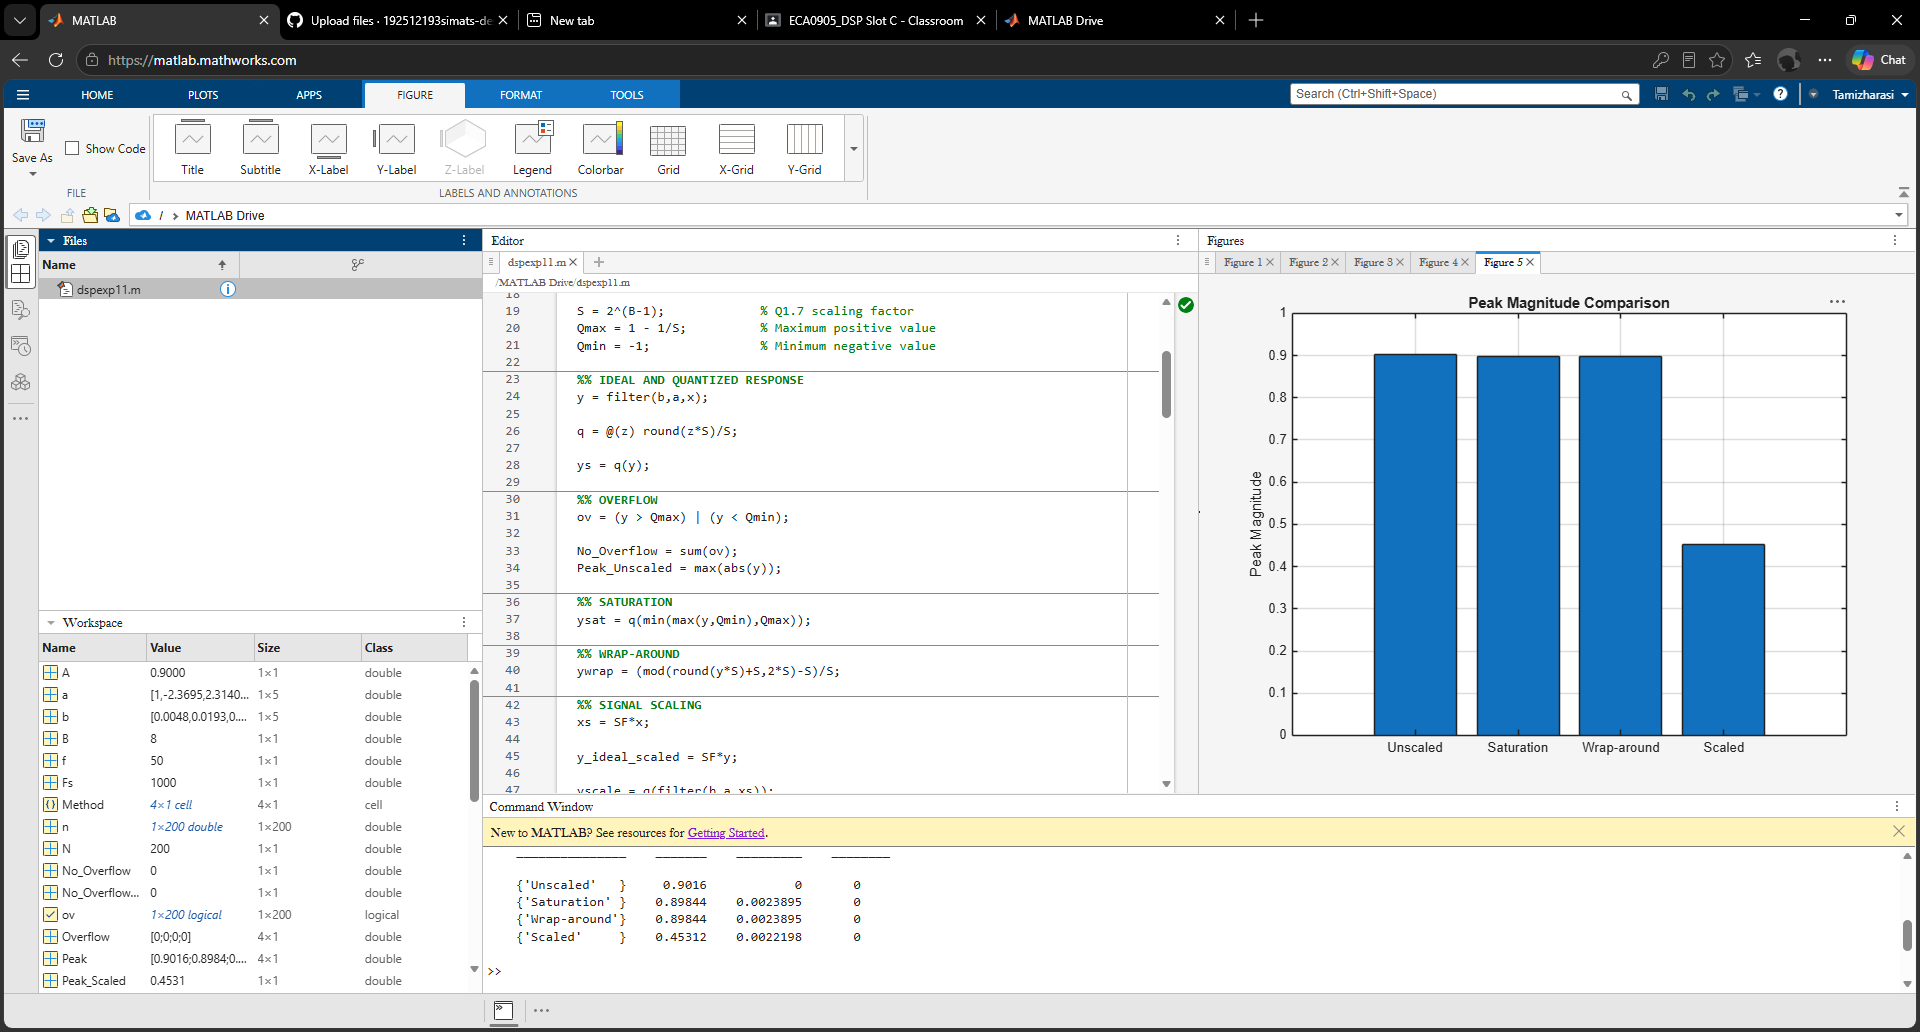
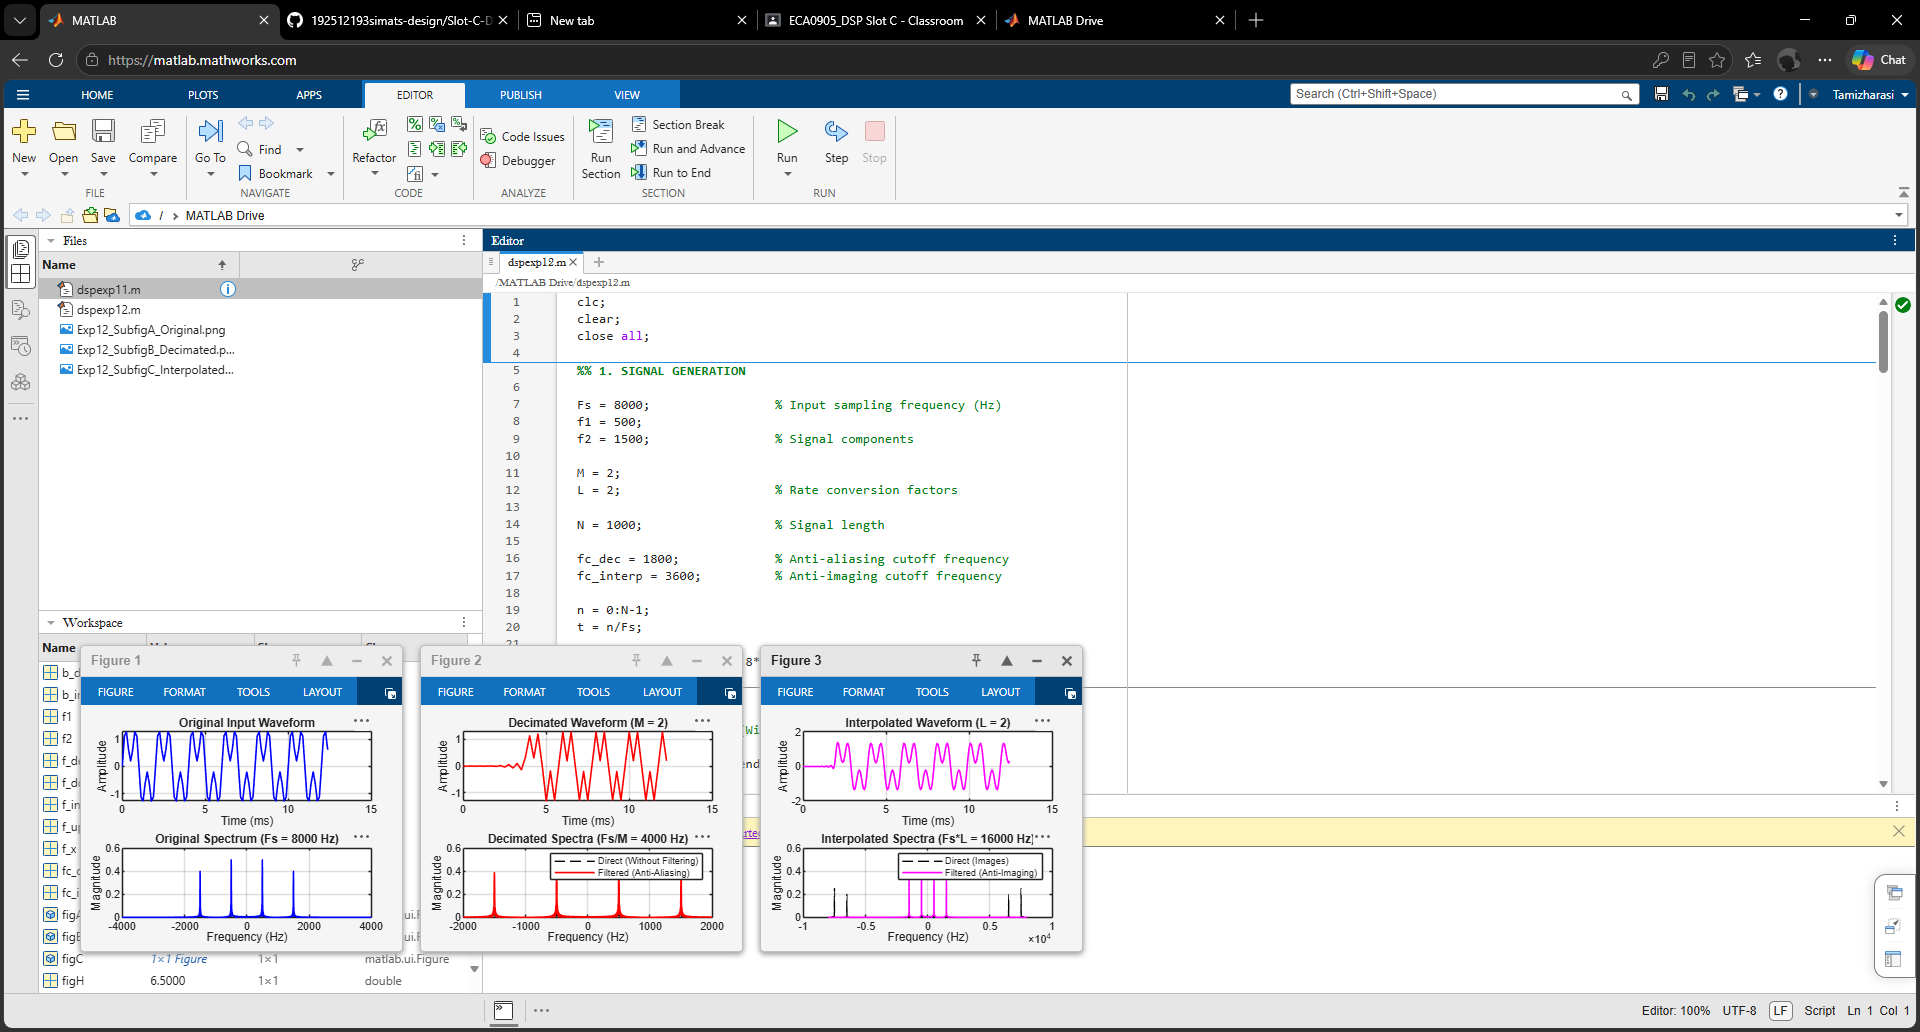
Add files via upload

diff --git a/dspexp12.m b/dspexp12.m
@@ -1,0 +1,192 @@
+clc;
+clear;
+close all;
+
+%% 1. SIGNAL GENERATION
+
+Fs = 8000;                 % Input sampling frequency (Hz)
+f1 = 500;
+f2 = 1500;                 % Signal components
+
+M = 2;
+L = 2;                     % Rate conversion factors
+
+N = 1000;                  % Signal length
+
+fc_dec = 1800;             % Anti-aliasing cutoff frequency
+fc_interp = 3600;          % Anti-imaging cutoff frequency
+
+n = 0:N-1;
+t = n/Fs;
+
+x = sin(2*pi*f1*t) + 0.8*sin(2*pi*f2*t);
+
+%% 2. DECIMATION
+
+% Direct Downsampling (Without Filtering)
+
+x_down_direct = x(1:M:end);
+
+Fs_dec = Fs/M;
+
+% Filtered Decimation (Anti-Aliasing)
+
+b_dec = fir1(60,fc_dec/(Fs/2));
+
+x_dec_filtered = filter(b_dec,1,x);
+
+x_dec_filtered = x_dec_filtered(1:M:end);
+
+%% 3. INTERPOLATION
+
+% Upsampling
+
+x_up = zeros(1,length(x)*L);
+
+x_up(1:L:end) = x;
+
+Fs_interp = Fs*L;
+
+% Anti-Imaging Filter
+
+b_interp = L*fir1(60,fc_interp/(Fs_interp/2));
+
+x_interp_filtered = filter(b_interp,1,x_up);
+
+%% 4. SPECTRUM COMPUTATION
+
+Nfft = 2048;
+
+[X_mag,f_x] = compute_spectrum(x,Fs,Nfft);
+
+[X_down_mag,f_down] = compute_spectrum(x_down_direct,Fs_dec,Nfft);
+
+[X_dec_mag,f_dec] = compute_spectrum(x_dec_filtered,Fs_dec,Nfft);
+
+[X_up_mag,f_up] = compute_spectrum(x_up,Fs_interp,Nfft);
+
+[X_interp_mag,f_interp] = compute_spectrum(x_interp_filtered,Fs_interp,Nfft);
+
+%% 5. COMMON PLOT PARAMETERS
+
+figW = 8.5;
+figH = 6.5;
+
+%% 6. SUBFIGURE 12A: ORIGINAL SIGNAL
+
+figA = figure('Units','centimeters', ...
+    'Position',[2,2,figW,figH]);
+
+subplot(2,1,1);
+
+plot(t(1:100)*1000,x(1:100),'b','LineWidth',1.2);
+
+grid on;
+
+title('Original Input Waveform');
+
+xlabel('Time (ms)');
+ylabel('Amplitude');
+
+subplot(2,1,2);
+
+plot(f_x,X_mag,'b','LineWidth',1.2);
+
+grid on;
+
+title('Original Spectrum (Fs = 8000 Hz)');
+
+xlabel('Frequency (Hz)');
+ylabel('Magnitude');
+
+exportgraphics(figA,'Exp12_SubfigA_Original.png','Resolution',600);
+
+%% 7. SUBFIGURE 12B: DECIMATED SIGNAL
+
+figB = figure('Units','centimeters', ...
+    'Position',[11,2,figW,figH]);
+
+t_dec = (0:length(x_dec_filtered)-1)/Fs_dec;
+
+subplot(2,1,1);
+
+plot(t_dec(1:50)*1000,x_dec_filtered(1:50), ...
+    'r','LineWidth',1.2);
+
+grid on;
+
+title('Decimated Waveform (M = 2)');
+
+xlabel('Time (ms)');
+ylabel('Amplitude');
+
+subplot(2,1,2);
+
+plot(f_down,X_down_mag,'k--','LineWidth',1);
+
+hold on;
+
+plot(f_dec,X_dec_mag,'r','LineWidth',1.2);
+
+grid on;
+
+title('Decimated Spectra (Fs/M = 4000 Hz)');
+
+xlabel('Frequency (Hz)');
+ylabel('Magnitude');
+
+legend('Direct (Without Filtering)', ...
+    'Filtered (Anti-Aliasing)','FontSize',7);
+
+exportgraphics(figB,'Exp12_SubfigB_Decimated.png','Resolution',600);
+
+%% 8. SUBFIGURE 12C: INTERPOLATED SIGNAL
+
+figC = figure('Units','centimeters', ...
+    'Position',[20,2,figW,figH]);
+
+t_interp = (0:length(x_interp_filtered)-1)/Fs_interp;
+
+subplot(2,1,1);
+
+plot(t_interp(1:200)*1000,x_interp_filtered(1:200), ...
+    'm','LineWidth',1.2);
+
+grid on;
+
+title('Interpolated Waveform (L = 2)');
+
+xlabel('Time (ms)');
+ylabel('Amplitude');
+
+subplot(2,1,2);
+
+plot(f_up,X_up_mag,'k--','LineWidth',1);
+
+hold on;
+
+plot(f_interp,X_interp_mag,'m','LineWidth',1.2);
+
+grid on;
+
+title('Interpolated Spectra (Fs*L = 16000 Hz)');
+
+xlabel('Frequency (Hz)');
+ylabel('Magnitude');
+
+legend('Direct (Images)', ...
+    'Filtered (Anti-Imaging)','FontSize',7);
+
+exportgraphics(figC,'Exp12_SubfigC_Interpolated.png','Resolution',600);
+
+%% 9. HELPER FUNCTION
+
+function [X_mag,f] = compute_spectrum(signal,Fs_curr,Nfft)
+
+    X = fft(signal,Nfft);
+
+    X_mag = abs(fftshift(X))/length(signal);
+
+    f = (-Nfft/2:Nfft/2-1)*(Fs_curr/Nfft);
+
+end
